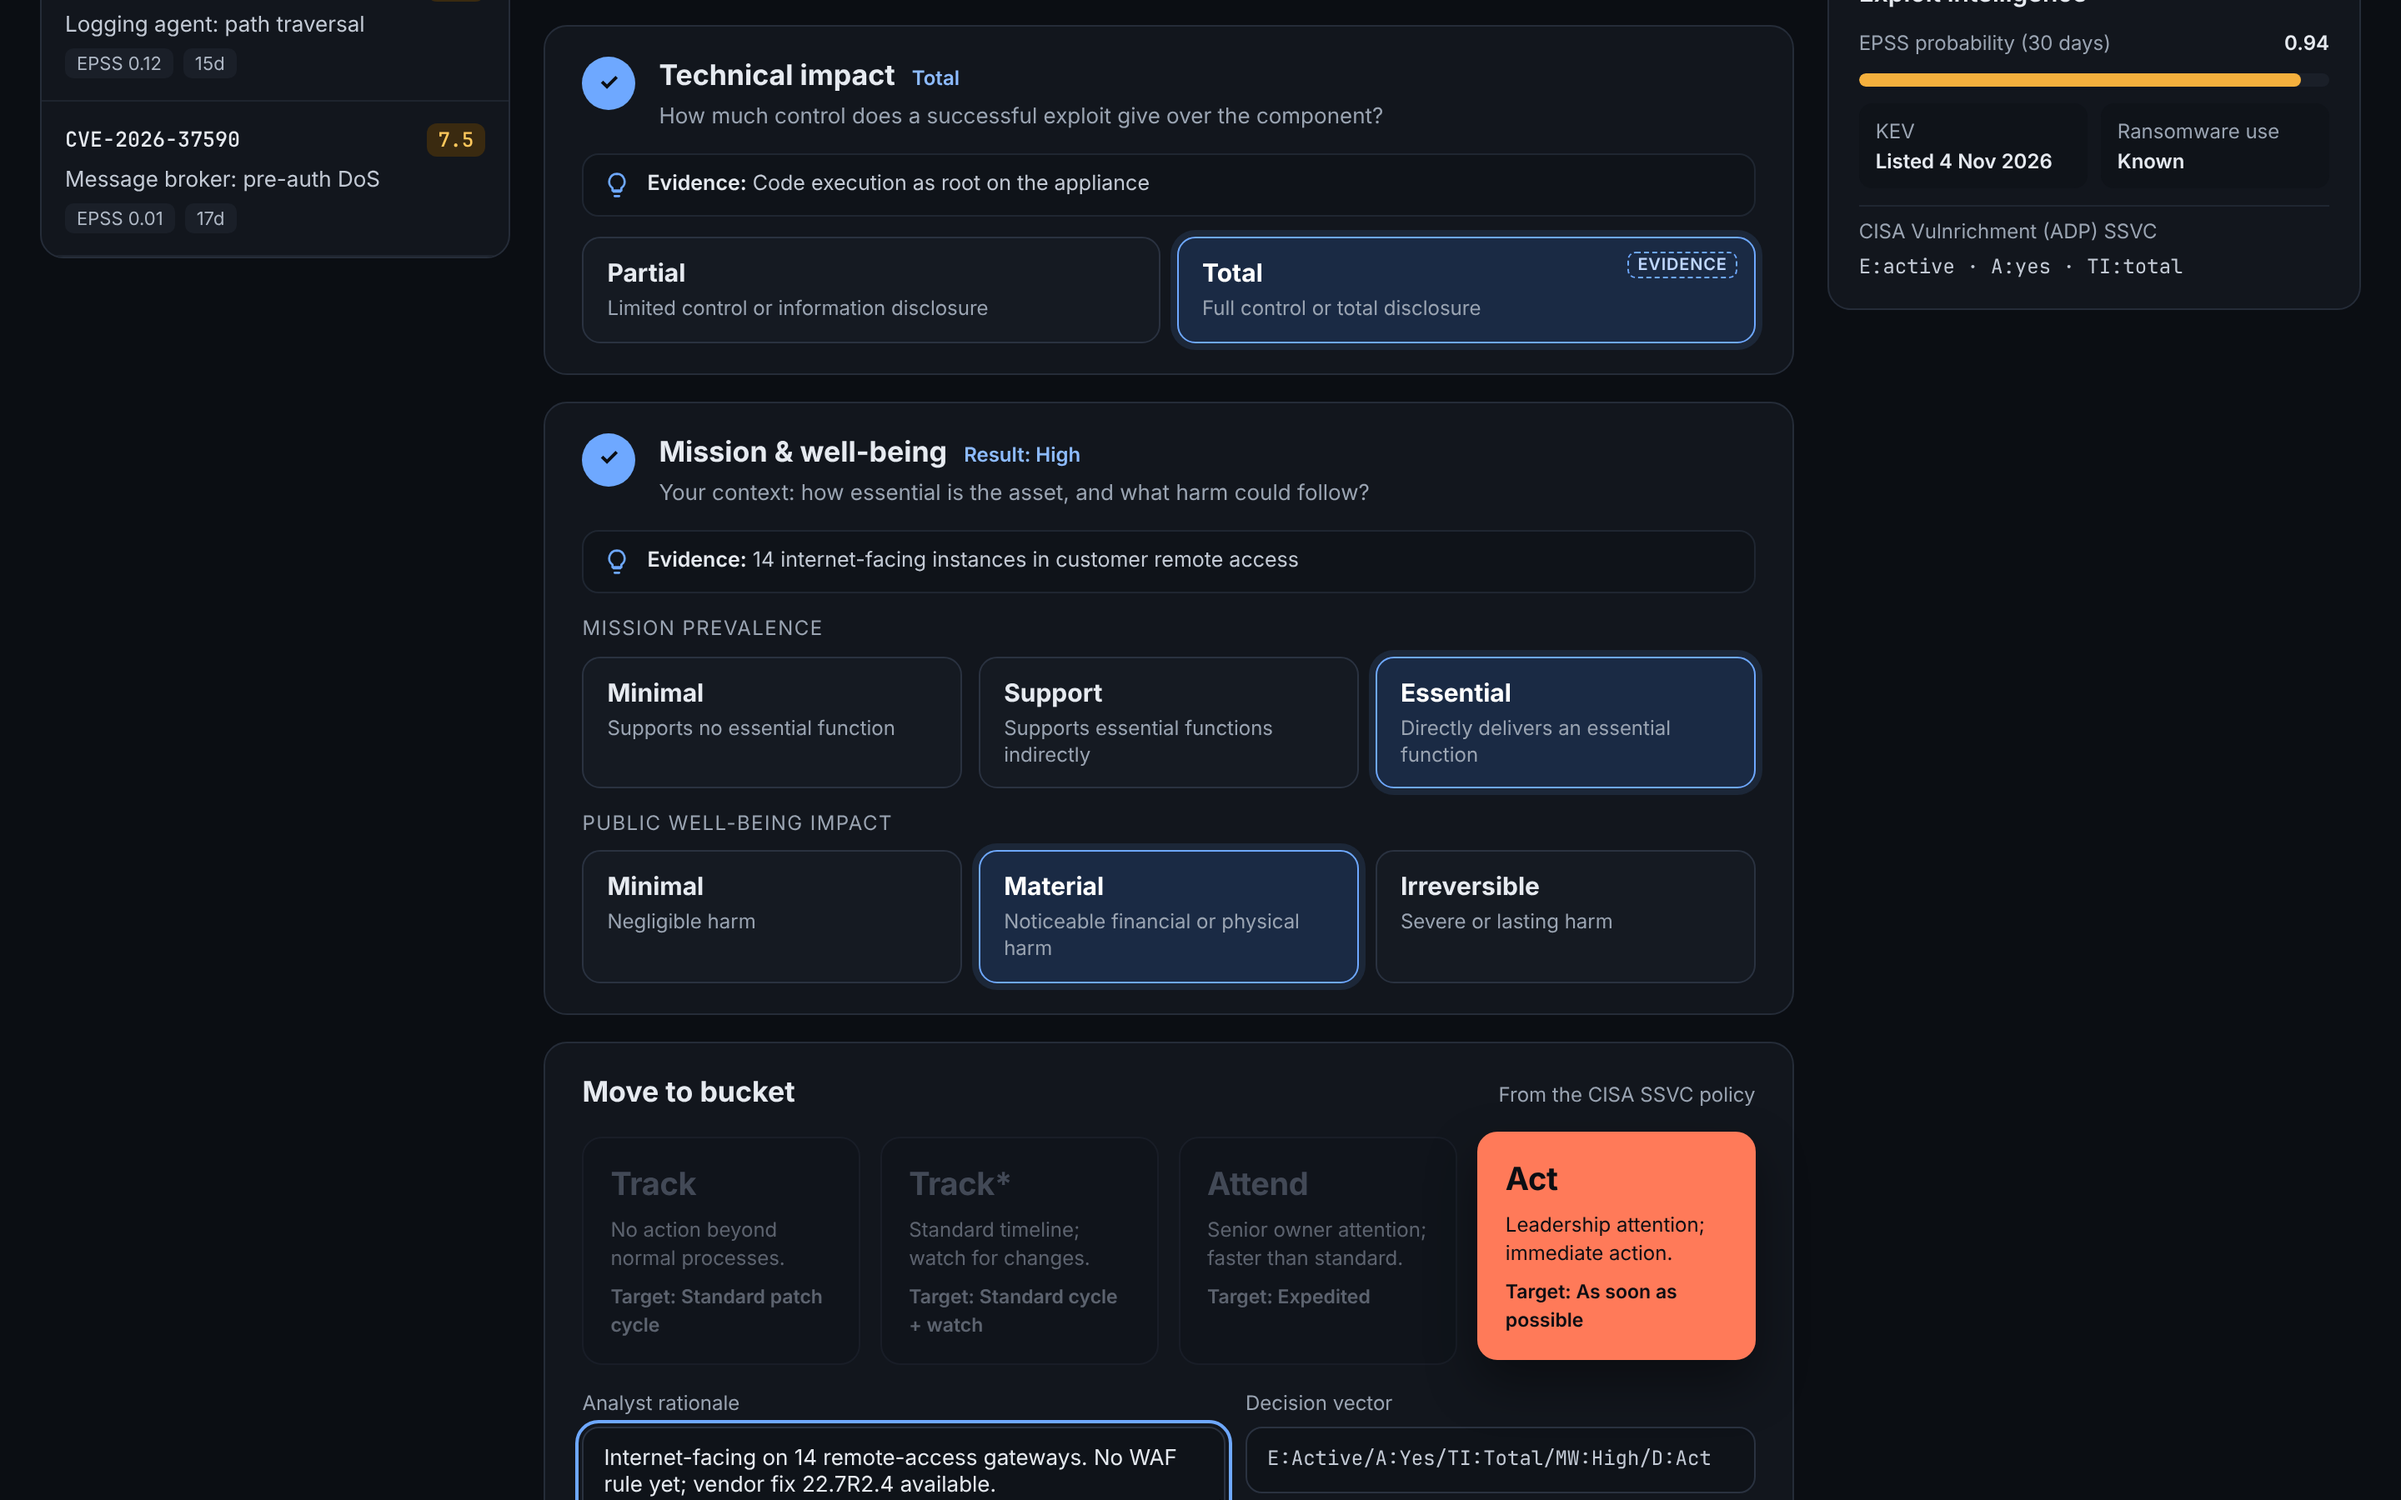
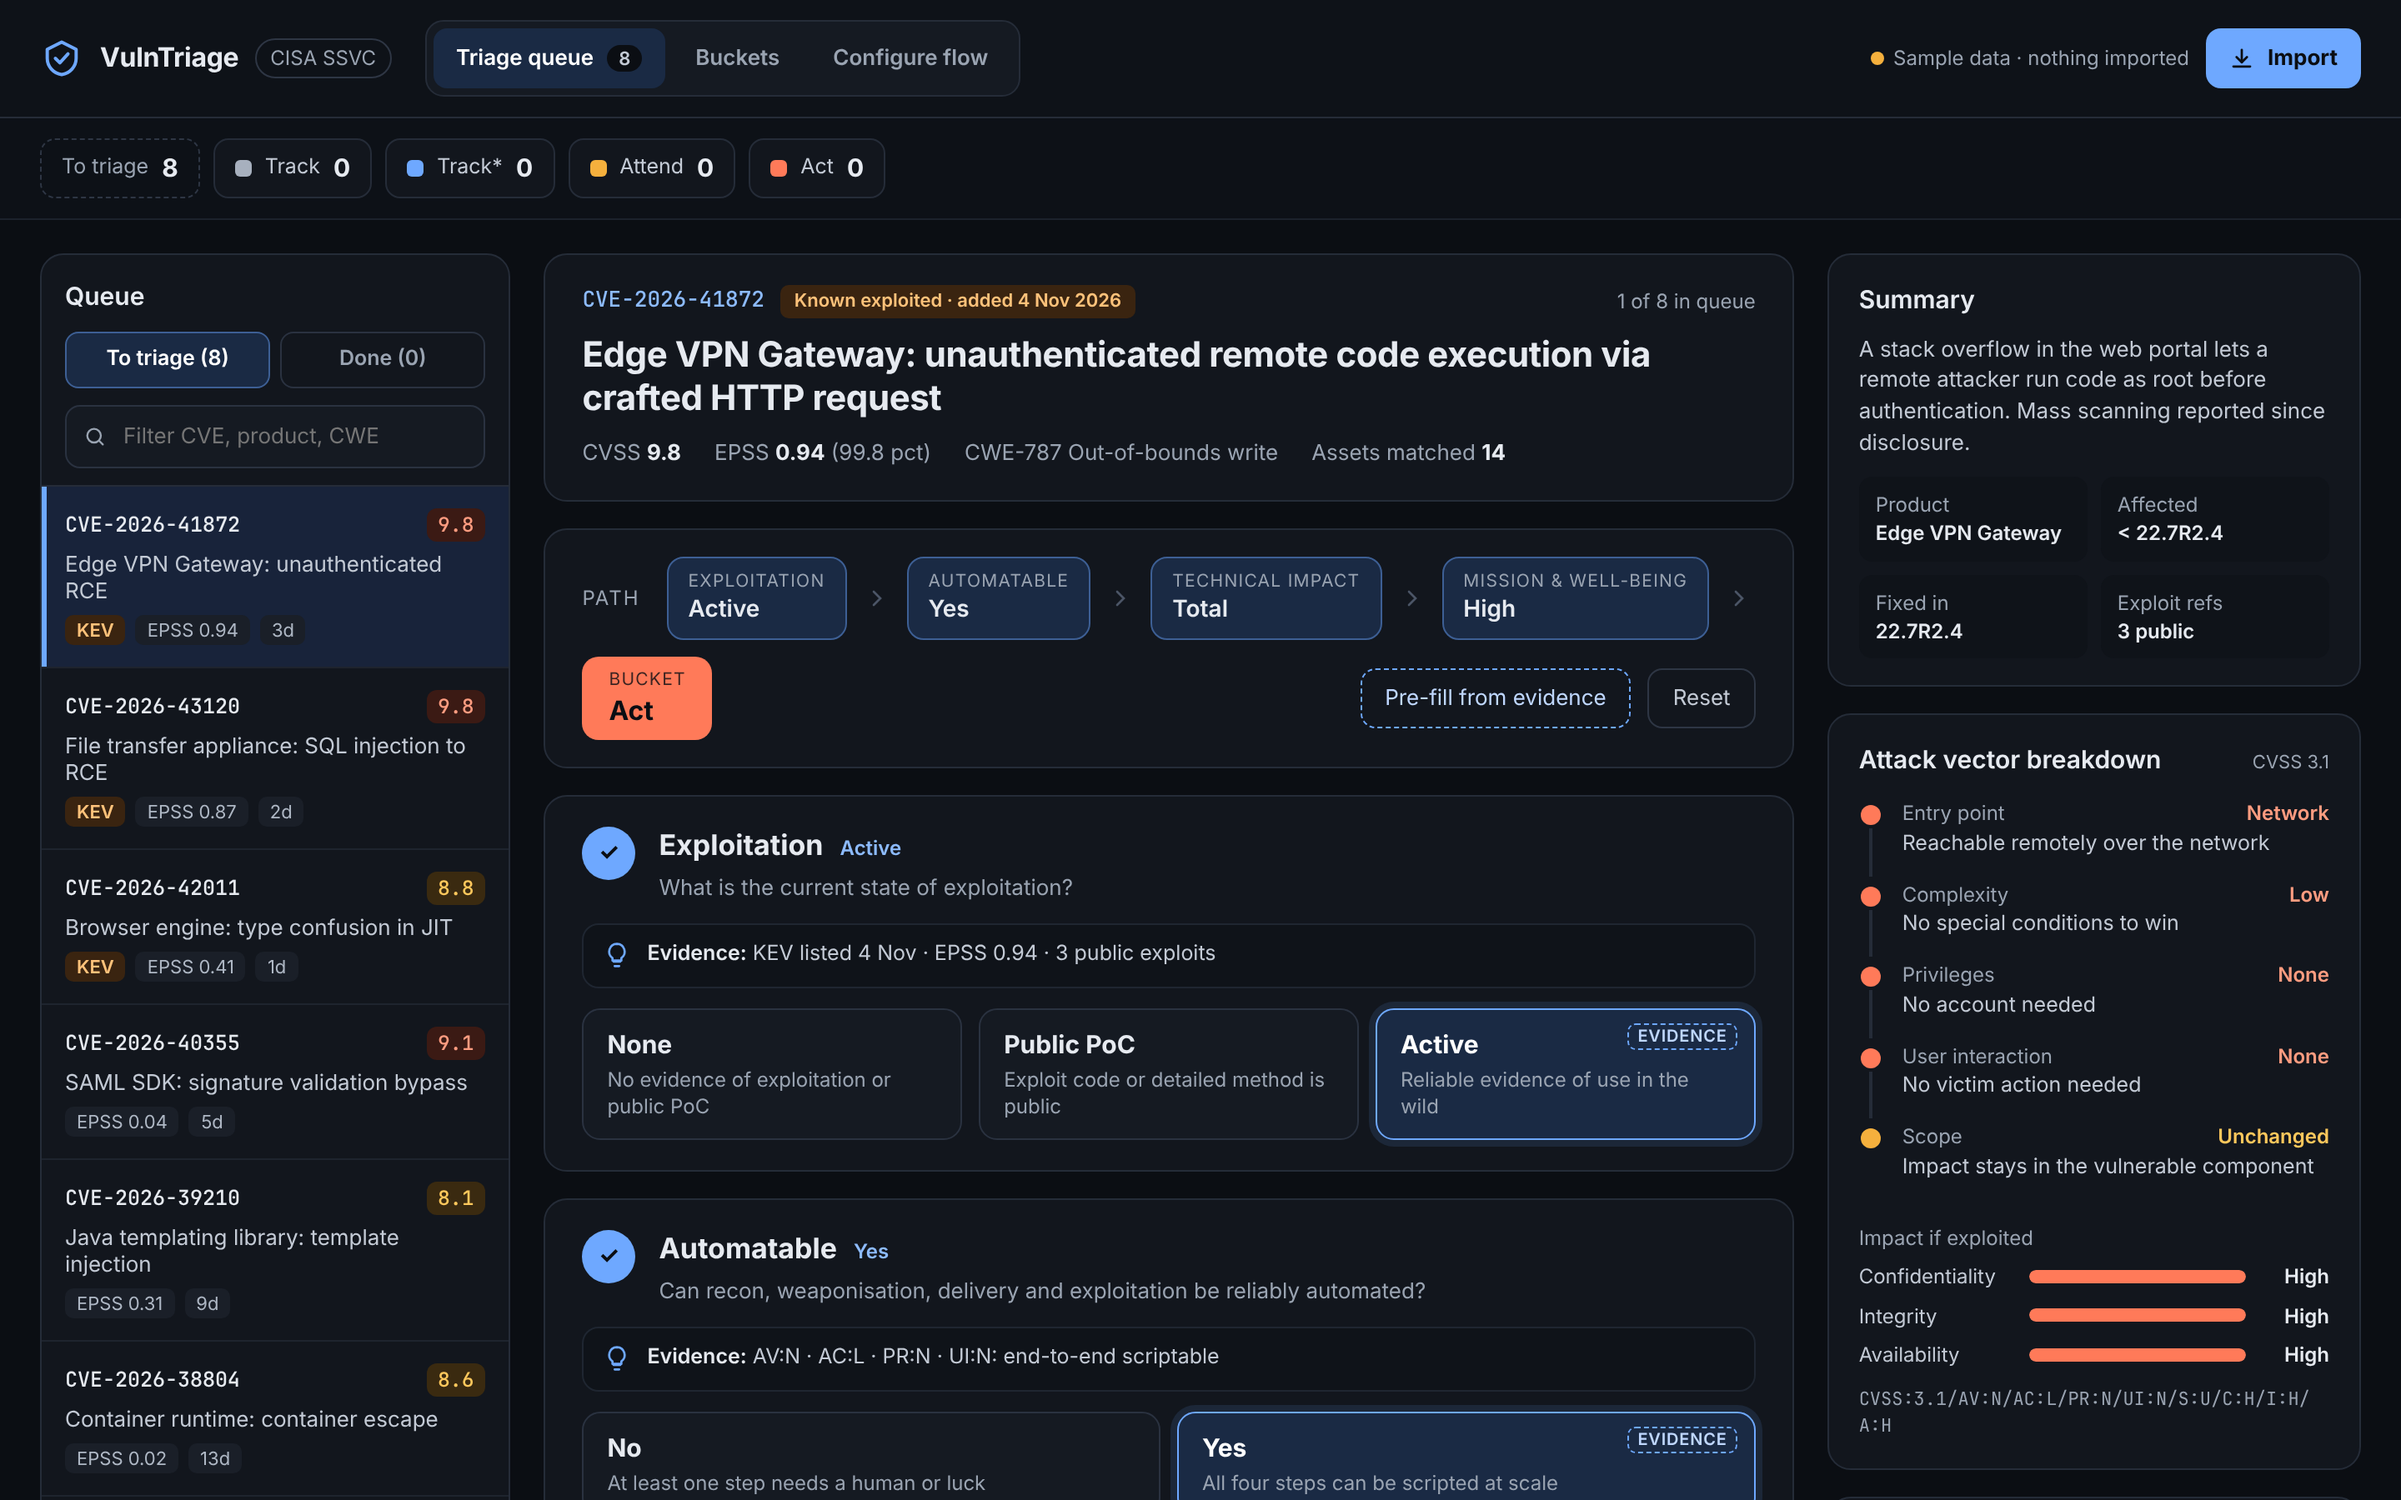
README: hero shows the top of the triage view; collapse use cases

diff --git a/README.md b/README.md
@@ -66,6 +66,11 @@ Opening `index.html` straight from disk also works, except **Load demo export**,
 
 ## Use cases
 
+Weekly queue triage, an urgent KEV listing, your own patch SLAs, re-triage when an exploit appears, audit evidence and analyst training.
+
+<details>
+<summary><b>Six scenarios, by role</b></summary>
+
 | Who | Situation | How VulnTriage helps |
 |---|---|---|
 | **Vulnerability management analyst** | Monday morning: a week of new CVEs and a handful of fresh KEV listings | Import VulnFlow's ranked queue (KEV first, then EPSS, then CVSS). Pre-fill the three evidence-backed points, add asset context, move on. The next CVE loads automatically. |
@@ -74,6 +79,8 @@ Opening `index.html` straight from disk also works, except **Load demo export**,
 | **Analyst re-triaging** | A CVE you parked in Track\* now has a public exploit | Open its card on the bucket board, change Exploitation, and it moves. The new vector and rationale replace the old ones. |
 | **GRC and audit** | "Why wasn't this patched in 14 days?" | **Export decisions** gives one record per CVE with bucket, decision vector, answers, rationale and timestamp. |
 | **Team lead training new analysts** | Juniors score everything by CVSS | Each decision point asks a plain question, explains its options and shows the evidence behind the suggestion, so the reasoning is visible and repeatable. |
+
+</details>
 
 ## The triage view
 
